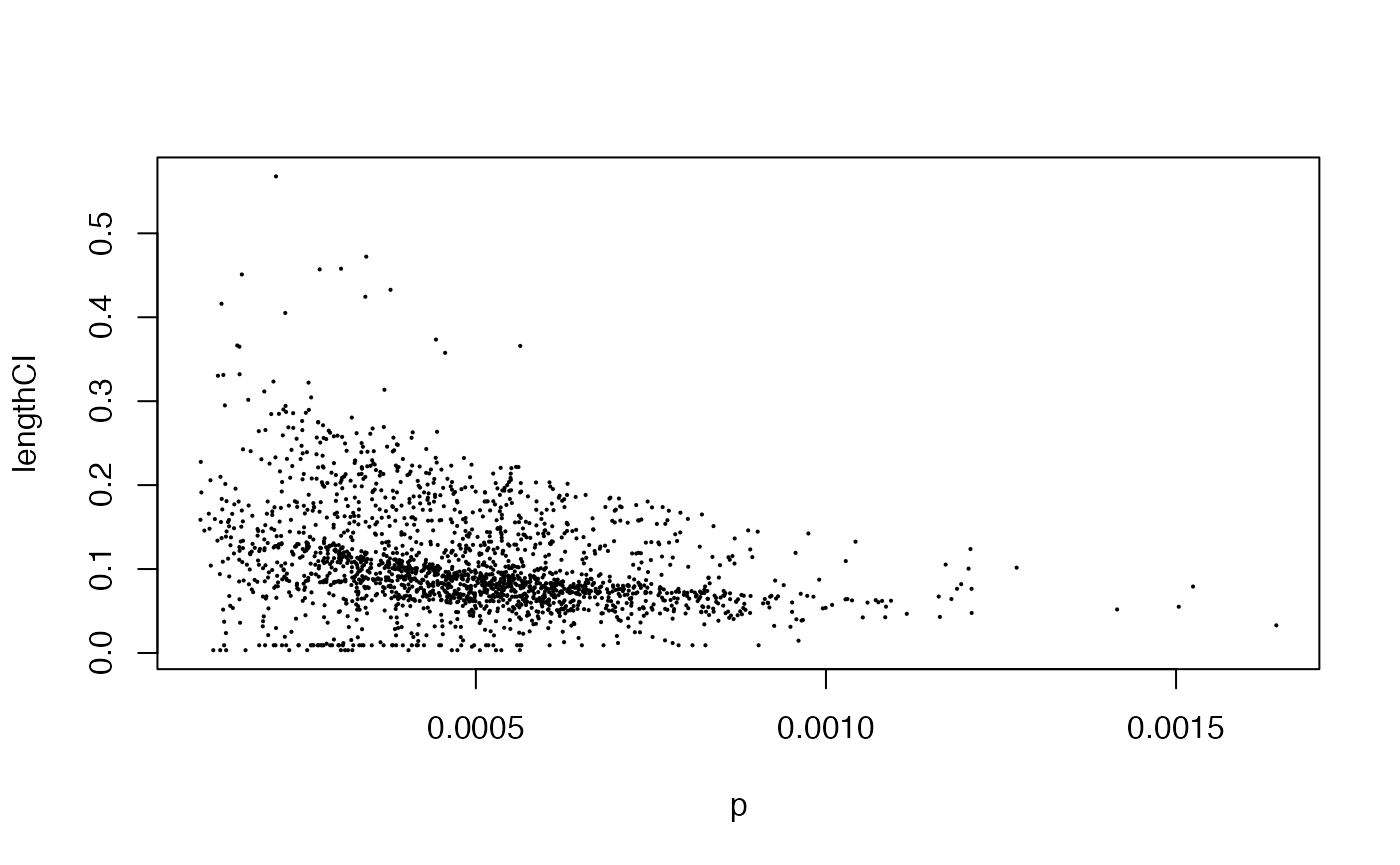
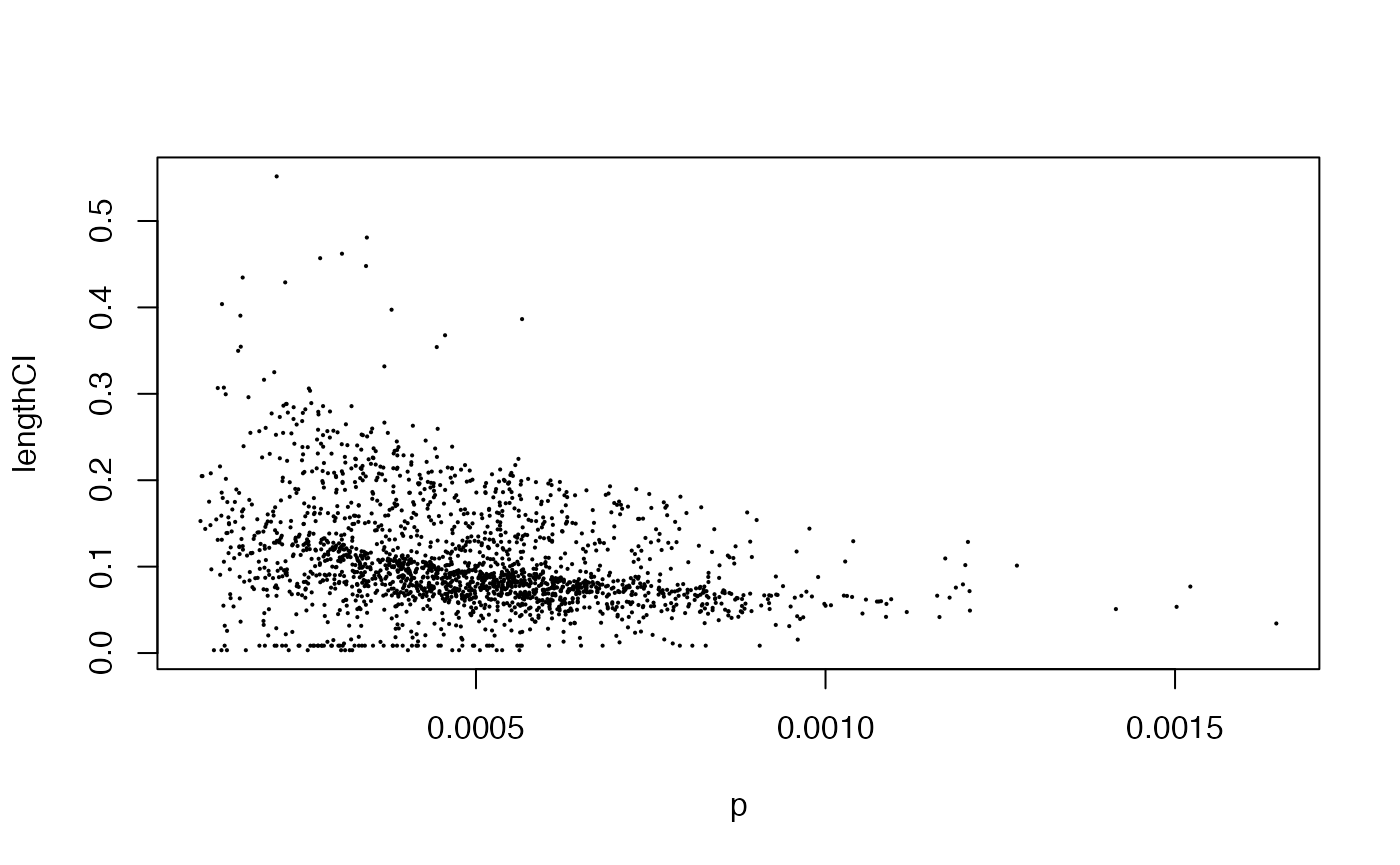
Built site for segregation: 0.6.0.9000@6e6c96d

diff --git a/articles/segregation.html b/articles/segregation.html
@@ -31,7 +31,7 @@
       </button>
       <span class="navbar-brand">
         <a class="navbar-link" href="../index.html">segregation</a>
-        <span class="version label label-default" data-toggle="tooltip" data-placement="bottom" title="Released version">0.6.0</span>
+        <span class="version label label-default" data-toggle="tooltip" data-placement="bottom" title="Released version">0.6.0.9000</span>
       </span>
     </div>
 
@@ -212,8 +212,8 @@ H(\mathbf{T})=\frac{M(\mathbf{T})}{E(\mathbf{T})},
              se <span class="op">=</span> <span class="cn">TRUE</span>, CI <span class="op">=</span> <span class="fl">.95</span>, n_bootstrap <span class="op">=</span> <span class="fl">500</span><span class="op">)</span>
 <span class="co">#&gt; 500 bootstrap iterations on 877739 observations</span>
 <span class="co">#&gt;    stat       est           se                  CI        bias</span>
-<span class="co">#&gt; 1:    M 0.4219141 0.0007728578 0.4204072,0.4233866 0.003624830</span>
-<span class="co">#&gt; 2:    H 0.4152465 0.0007321086 0.4138390,0.4167649 0.003561782</span></code></pre></div>
+<span class="co">#&gt; 1:    M 0.4218872 0.0007931048 0.4202683,0.4233906 0.003651743</span>
+<span class="co">#&gt; 2:    H 0.4152301 0.0007027139 0.4139536,0.4166203 0.003578191</span></code></pre></div>
 <p>As there a large number of observations, the standard errors are very small.</p>
 </div>
 <div id="between-within-decomposition" class="section level2">
@@ -337,17 +337,17 @@ H(\mathbf{T})=H(\mathbf{S}) + \sum_{s=1}^S \frac{E(\mathbf{T}_s)}{E(\mathbf{T})}
                     se <span class="op">=</span> <span class="cn">TRUE</span>, CI <span class="op">=</span> <span class="fl">.95</span>, n_bootstrap <span class="op">=</span> <span class="fl">500</span><span class="op">)</span><span class="op">)</span>
 <span class="co">#&gt; 500 bootstrap iterations on 877739 observations</span>
 <span class="co">#&gt;    stat       est           se                  CI        bias</span>
-<span class="co">#&gt; 1:    M 0.4219421 0.0008108677 0.4203178,0.4234603 0.003596885</span>
-<span class="co">#&gt; 2:    H 0.4152673 0.0007615978 0.4137317,0.4166862 0.003541060</span></code></pre></div>
+<span class="co">#&gt; 1:    M 0.4219142 0.0007955386 0.4203195,0.4235453 0.003624824</span>
+<span class="co">#&gt; 2:    H 0.4152423 0.0007258391 0.4137733,0.4166416 0.003565988</span></code></pre></div>
 <p>The confidence intervals are based on the percentiles from the bootstrap distribution, and hence require a large number of bootstrap iterations for valid interpretation. The estimate <code>est</code> that is reported in the results has already been “debiased”, i.e. the bias that has been estimated from the bootstrap distribution (which is reported in <code>bias</code>) has been subtracted from the usual maximum-likelihood estimate that we would obtain from <code>mutual_total</code> with <code>se = FALSE</code>. The confidence interval is centered around the debiased estimate.</p>
 <p>On balance, confidence intervals are preferred over the standard error because the bootstrap distribution can be skewed, especially when segregation is very low or very high. For this example, we can see that the standard errors provide almost identical coverage to the confidence intervals, as</p>
 <div class="sourceCode" id="cb16"><pre class="downlit sourceCode r">
 <code class="sourceCode R"><span class="co"># M</span>
 <span class="fu"><a href="https://rdrr.io/r/base/with.html">with</a></span><span class="op">(</span><span class="va">se</span>, <span class="fu"><a href="https://rdrr.io/r/base/c.html">c</a></span><span class="op">(</span><span class="va">est</span><span class="op">[</span><span class="fl">1</span><span class="op">]</span> <span class="op">-</span> <span class="fl">1.96</span> <span class="op">*</span> <span class="va">se</span><span class="op">[</span><span class="fl">1</span><span class="op">]</span>, <span class="va">est</span><span class="op">[</span><span class="fl">1</span><span class="op">]</span> <span class="op">+</span> <span class="fl">1.96</span> <span class="op">*</span> <span class="va">se</span><span class="op">[</span><span class="fl">1</span><span class="op">]</span><span class="op">)</span><span class="op">)</span>
-<span class="co">#&gt; [1] 0.4203528 0.4235314</span>
+<span class="co">#&gt; [1] 0.4203549 0.4234734</span>
 <span class="co"># H</span>
 <span class="fu"><a href="https://rdrr.io/r/base/with.html">with</a></span><span class="op">(</span><span class="va">se</span>, <span class="fu"><a href="https://rdrr.io/r/base/c.html">c</a></span><span class="op">(</span><span class="va">est</span><span class="op">[</span><span class="fl">2</span><span class="op">]</span> <span class="op">-</span> <span class="fl">1.96</span> <span class="op">*</span> <span class="va">se</span><span class="op">[</span><span class="fl">2</span><span class="op">]</span>, <span class="va">est</span><span class="op">[</span><span class="fl">2</span><span class="op">]</span> <span class="op">+</span> <span class="fl">1.96</span> <span class="op">*</span> <span class="va">se</span><span class="op">[</span><span class="fl">2</span><span class="op">]</span><span class="op">)</span><span class="op">)</span>
-<span class="co">#&gt; [1] 0.4137745 0.4167600</span></code></pre></div>
+<span class="co">#&gt; [1] 0.4138197 0.4166650</span></code></pre></div>
 <p>provide effectively the same coverage as the confidence intervals obtained from the percentile bootstrap.</p>
 <p>Whenever the bootstrap is used, the bootstrap distributions for each parameter are reported in an attribute <code>bootstrap</code> of the returned object. This can be used, for instance, to check whether the bootstrap distribution is skewed. The following code computes local segregation scores for all schools, and then shows a histogram of the bootstrap distribution for school C137_9, which has a very low local segregation score:</p>
 <div class="sourceCode" id="cb17"><pre class="downlit sourceCode r">
@@ -363,8 +363,8 @@ H(\mathbf{T})=H(\mathbf{S}) + \sum_{s=1}^S \frac{E(\mathbf{T}_s)}{E(\mathbf{T})}
 <div class="sourceCode" id="cb18"><pre class="downlit sourceCode r">
 <code class="sourceCode R"><span class="fu"><a href="../reference/mutual_expected.html">mutual_expected</a></span><span class="op">(</span><span class="va">schools00</span>, <span class="st">"race"</span>, <span class="st">"school"</span>, weight <span class="op">=</span> <span class="st">"n"</span>, n_bootstrap <span class="op">=</span> <span class="fl">500</span><span class="op">)</span>
 <span class="co">#&gt;         stat         est           se</span>
-<span class="co">#&gt; 1: M under 0 0.004808920 7.554864e-05</span>
-<span class="co">#&gt; 2: H under 0 0.004732858 7.435370e-05</span></code></pre></div>
+<span class="co">#&gt; 1: M under 0 0.004798412 7.094994e-05</span>
+<span class="co">#&gt; 2: H under 0 0.004722516 6.982774e-05</span></code></pre></div>
 <p>Here, there is no concern about bias due to a small sample size.</p>
 </div>
 <div id="decomposing-differences-in-indices" class="section level2">

diff --git a/news/index.html b/news/index.html
@@ -71,7 +71,7 @@
       </button>
       <span class="navbar-brand">
         <a class="navbar-link" href="../index.html">segregation</a>
-        <span class="version label label-default" data-toggle="tooltip" data-placement="bottom" title="Released version">0.6.0</span>
+        <span class="version label label-default" data-toggle="tooltip" data-placement="bottom" title="Released version">0.6.0.9000</span>
       </span>
     </div>
 
@@ -129,6 +129,11 @@
       <small>Source: <a href='https://github.com/elbersb/segregation/blob/master/NEWS.md'><code>NEWS.md</code></a></small>
     </div>
 
+    <div id="segregation-0609000" class="section level1">
+<h1 class="page-header" data-toc-text="0.6.0.9000">
+<a href="#segregation-0609000" class="anchor"></a>segregation 0.6.0.9000<small> Unreleased </small>
+</h1>
+</div>
     <div id="segregation-060" class="section level1">
 <h1 class="page-header" data-toc-text="0.6.0">
 <a href="#segregation-060" class="anchor"></a>segregation 0.6.0<small> Unreleased </small>

diff --git a/reference/mutual_difference.html b/reference/mutual_difference.html
@@ -78,7 +78,7 @@ All methods have been extended to account for missing units/groups in either dat
       </button>
       <span class="navbar-brand">
         <a class="navbar-link" href="../index.html">segregation</a>
-        <span class="version label label-default" data-toggle="tooltip" data-placement="bottom" title="Released version">0.6.0</span>
+        <span class="version label label-default" data-toggle="tooltip" data-placement="bottom" title="Released version">0.6.0.9000</span>
       </span>
     </div>
 

diff --git a/reference/segregation.html b/reference/segregation.html
@@ -75,7 +75,7 @@ and between terms. Includes standard error estimation by bootstrapping." />
       </button>
       <span class="navbar-brand">
         <a class="navbar-link" href="../index.html">segregation</a>
-        <span class="version label label-default" data-toggle="tooltip" data-placement="bottom" title="Released version">0.6.0</span>
+        <span class="version label label-default" data-toggle="tooltip" data-placement="bottom" title="Released version">0.6.0.9000</span>
       </span>
     </div>
 

diff --git a/reference/schools00.html b/reference/schools00.html
@@ -75,7 +75,7 @@ The original data can be downloaded at https://nces.ed.gov/ccd/." />
       </button>
       <span class="navbar-brand">
         <a class="navbar-link" href="../index.html">segregation</a>
-        <span class="version label label-default" data-toggle="tooltip" data-placement="bottom" title="Released version">0.6.0</span>
+        <span class="version label label-default" data-toggle="tooltip" data-placement="bottom" title="Released version">0.6.0.9000</span>
       </span>
     </div>
 

diff --git a/reference/schools05.html b/reference/schools05.html
@@ -75,7 +75,7 @@ The original data can be downloaded at https://nces.ed.gov/ccd/." />
       </button>
       <span class="navbar-brand">
         <a class="navbar-link" href="../index.html">segregation</a>
-        <span class="version label label-default" data-toggle="tooltip" data-placement="bottom" title="Released version">0.6.0</span>
+        <span class="version label label-default" data-toggle="tooltip" data-placement="bottom" title="Released version">0.6.0.9000</span>
       </span>
     </div>
 

diff --git a/reference/mutual_expected.html b/reference/mutual_expected.html
@@ -77,7 +77,7 @@ the interpretation of index scores might have to be adjusted." />
       </button>
       <span class="navbar-brand">
         <a class="navbar-link" href="../index.html">segregation</a>
-        <span class="version label label-default" data-toggle="tooltip" data-placement="bottom" title="Released version">0.6.0</span>
+        <span class="version label label-default" data-toggle="tooltip" data-placement="bottom" title="Released version">0.6.0.9000</span>
       </span>
     </div>
 

diff --git a/reference/mutual_total.html b/reference/mutual_total.html
@@ -75,7 +75,7 @@ Also see mutual_within for detailed within calculations." />
       </button>
       <span class="navbar-brand">
         <a class="navbar-link" href="../index.html">segregation</a>
-        <span class="version label label-default" data-toggle="tooltip" data-placement="bottom" title="Released version">0.6.0</span>
+        <span class="version label label-default" data-toggle="tooltip" data-placement="bottom" title="Released version">0.6.0.9000</span>
       </span>
     </div>
 

diff --git a/reference/mutual_within.html b/reference/mutual_within.html
@@ -73,7 +73,7 @@ within each category defined by within." />
       </button>
       <span class="navbar-brand">
         <a class="navbar-link" href="../index.html">segregation</a>
-        <span class="version label label-default" data-toggle="tooltip" data-placement="bottom" title="Released version">0.6.0</span>
+        <span class="version label label-default" data-toggle="tooltip" data-placement="bottom" title="Released version">0.6.0.9000</span>
       </span>
     </div>
 

diff --git a/reference/ipf.html b/reference/ipf.html
@@ -74,7 +74,7 @@ proportional fitting algorithm (IPF)." />
       </button>
       <span class="navbar-brand">
         <a class="navbar-link" href="../index.html">segregation</a>
-        <span class="version label label-default" data-toggle="tooltip" data-placement="bottom" title="Released version">0.6.0</span>
+        <span class="version label label-default" data-toggle="tooltip" data-placement="bottom" title="Released version">0.6.0.9000</span>
       </span>
     </div>
 

diff --git a/reference/matrix_to_long.html b/reference/matrix_to_long.html
@@ -74,7 +74,7 @@ the matrix will be respected." />
       </button>
       <span class="navbar-brand">
         <a class="navbar-link" href="../index.html">segregation</a>
-        <span class="version label label-default" data-toggle="tooltip" data-placement="bottom" title="Released version">0.6.0</span>
+        <span class="version label label-default" data-toggle="tooltip" data-placement="bottom" title="Released version">0.6.0.9000</span>
       </span>
     </div>
 

diff --git a/reference/dissimilarity.html b/reference/dissimilarity.html
@@ -73,7 +73,7 @@ the Index of Dissimilarity." />
       </button>
       <span class="navbar-brand">
         <a class="navbar-link" href="../index.html">segregation</a>
-        <span class="version label label-default" data-toggle="tooltip" data-placement="bottom" title="Released version">0.6.0</span>
+        <span class="version label label-default" data-toggle="tooltip" data-placement="bottom" title="Released version">0.6.0.9000</span>
       </span>
     </div>
 
